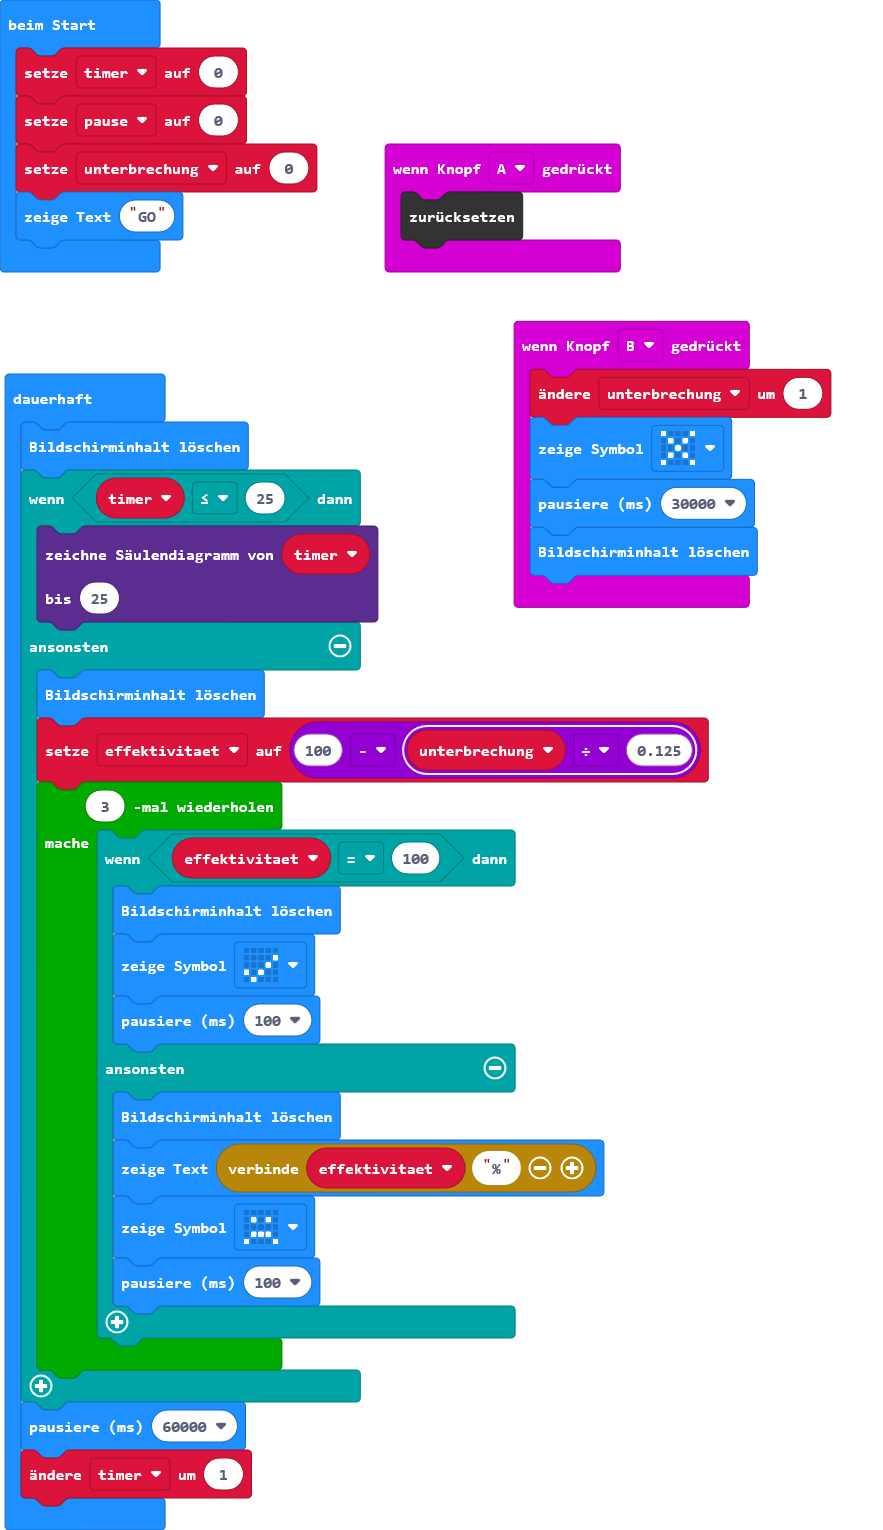
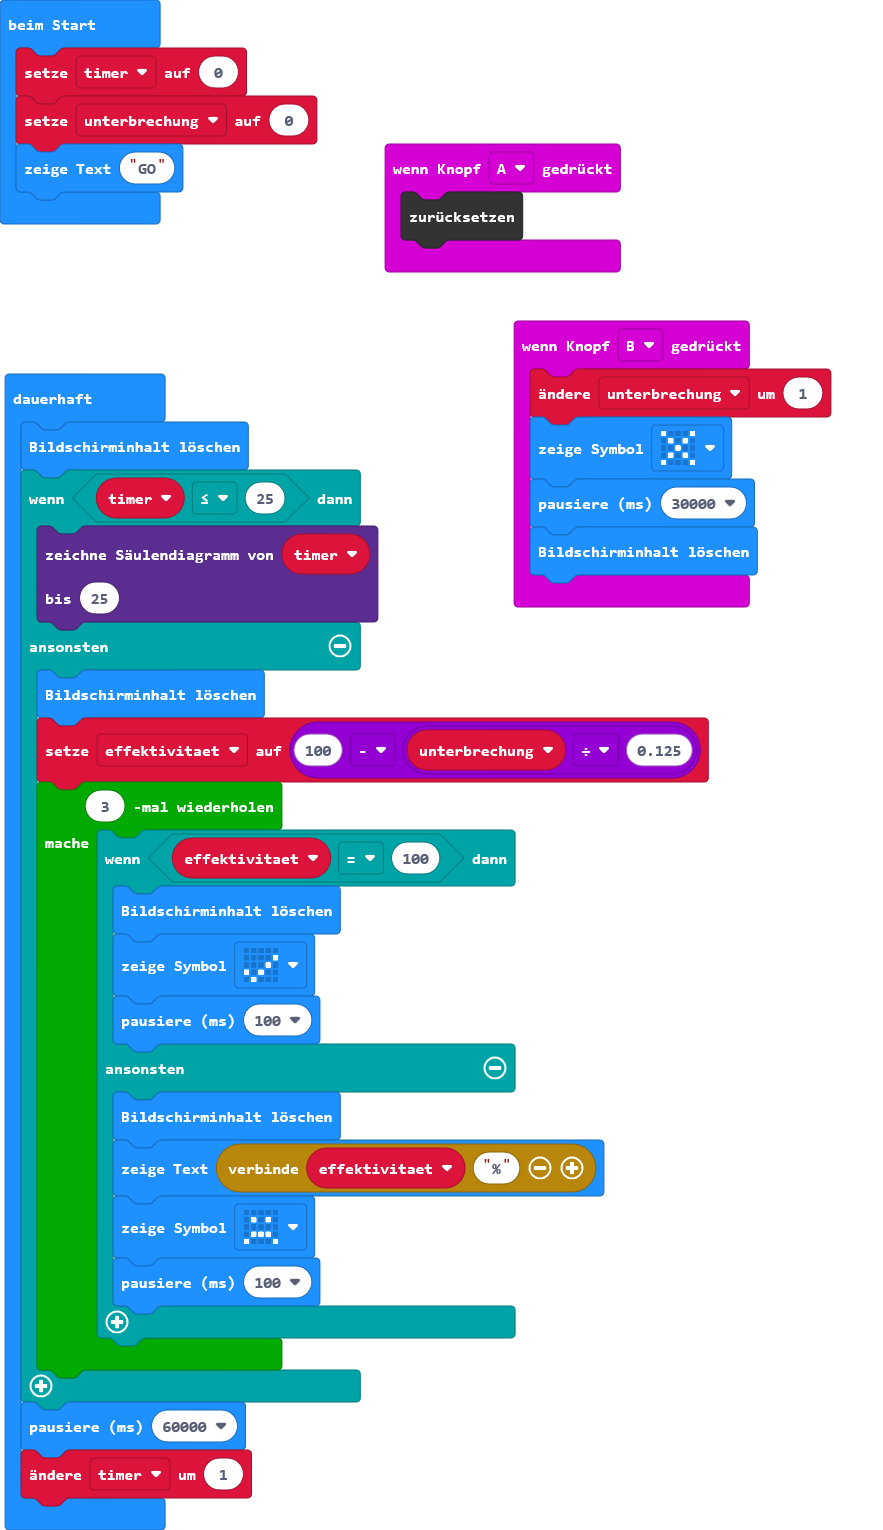
Aktualisiere main.blocks, main.ts, main.py

Changed region(s): [[0.0, 0.0614, 0.3669, 0.1843]]

diff --git a/main.ts b/main.ts
@@ -9,7 +9,6 @@ input.onButtonPressed(Button.B, function () {
 })
 let effektivitaet = 0
 let timer = 0
-let pause2 = 0
 let unterbrechung = 0
 basic.showString("GO")
 basic.forever(function () {

diff --git a/main.py b/main.py
@@ -1,35 +1,39 @@
 def on_button_pressed_a():
-    global timer
-    timer = 0
-    basic.clear_screen()
+    control.reset()
 input.on_button_pressed(Button.A, on_button_pressed_a)
 
 def on_button_pressed_b():
-    global pause2, timer
-    pause2 = timer
-    basic.clear_screen()
+    global unterbrechung
+    unterbrechung += 1
     basic.show_icon(IconNames.NO)
-    basic.pause(120000)
+    basic.pause(30000)
     basic.clear_screen()
-    timer = pause2
 input.on_button_pressed(Button.B, on_button_pressed_b)
 
-pause2 = 0
+effektivitaet = 0
 timer = 0
-timer = 0
 pause2 = 0
+unterbrechung = 0
 basic.show_string("GO")
 
 def on_forever():
-    global timer
-    timer += 1
+    global effektivitaet, timer
+    basic.clear_screen()
     if timer <= 25:
         led.plot_bar_graph(timer, 25)
     else:
         basic.clear_screen()
+        effektivitaet = 100 - unterbrechung / 0.125
         for index in range(3):
-            basic.clear_screen()
-            basic.show_icon(IconNames.YES)
-            basic.pause(100)
-    basic.pause(60000)
+            if effektivitaet == 100:
+                basic.clear_screen()
+                basic.show_icon(IconNames.YES)
+                basic.pause(100)
+            else:
+                basic.clear_screen()
+                basic.show_string("" + str(effektivitaet) + "%")
+                basic.show_icon(IconNames.SAD)
+                basic.pause(100)
+    basic.pause(1000)
+    timer += 1
 basic.forever(on_forever)
